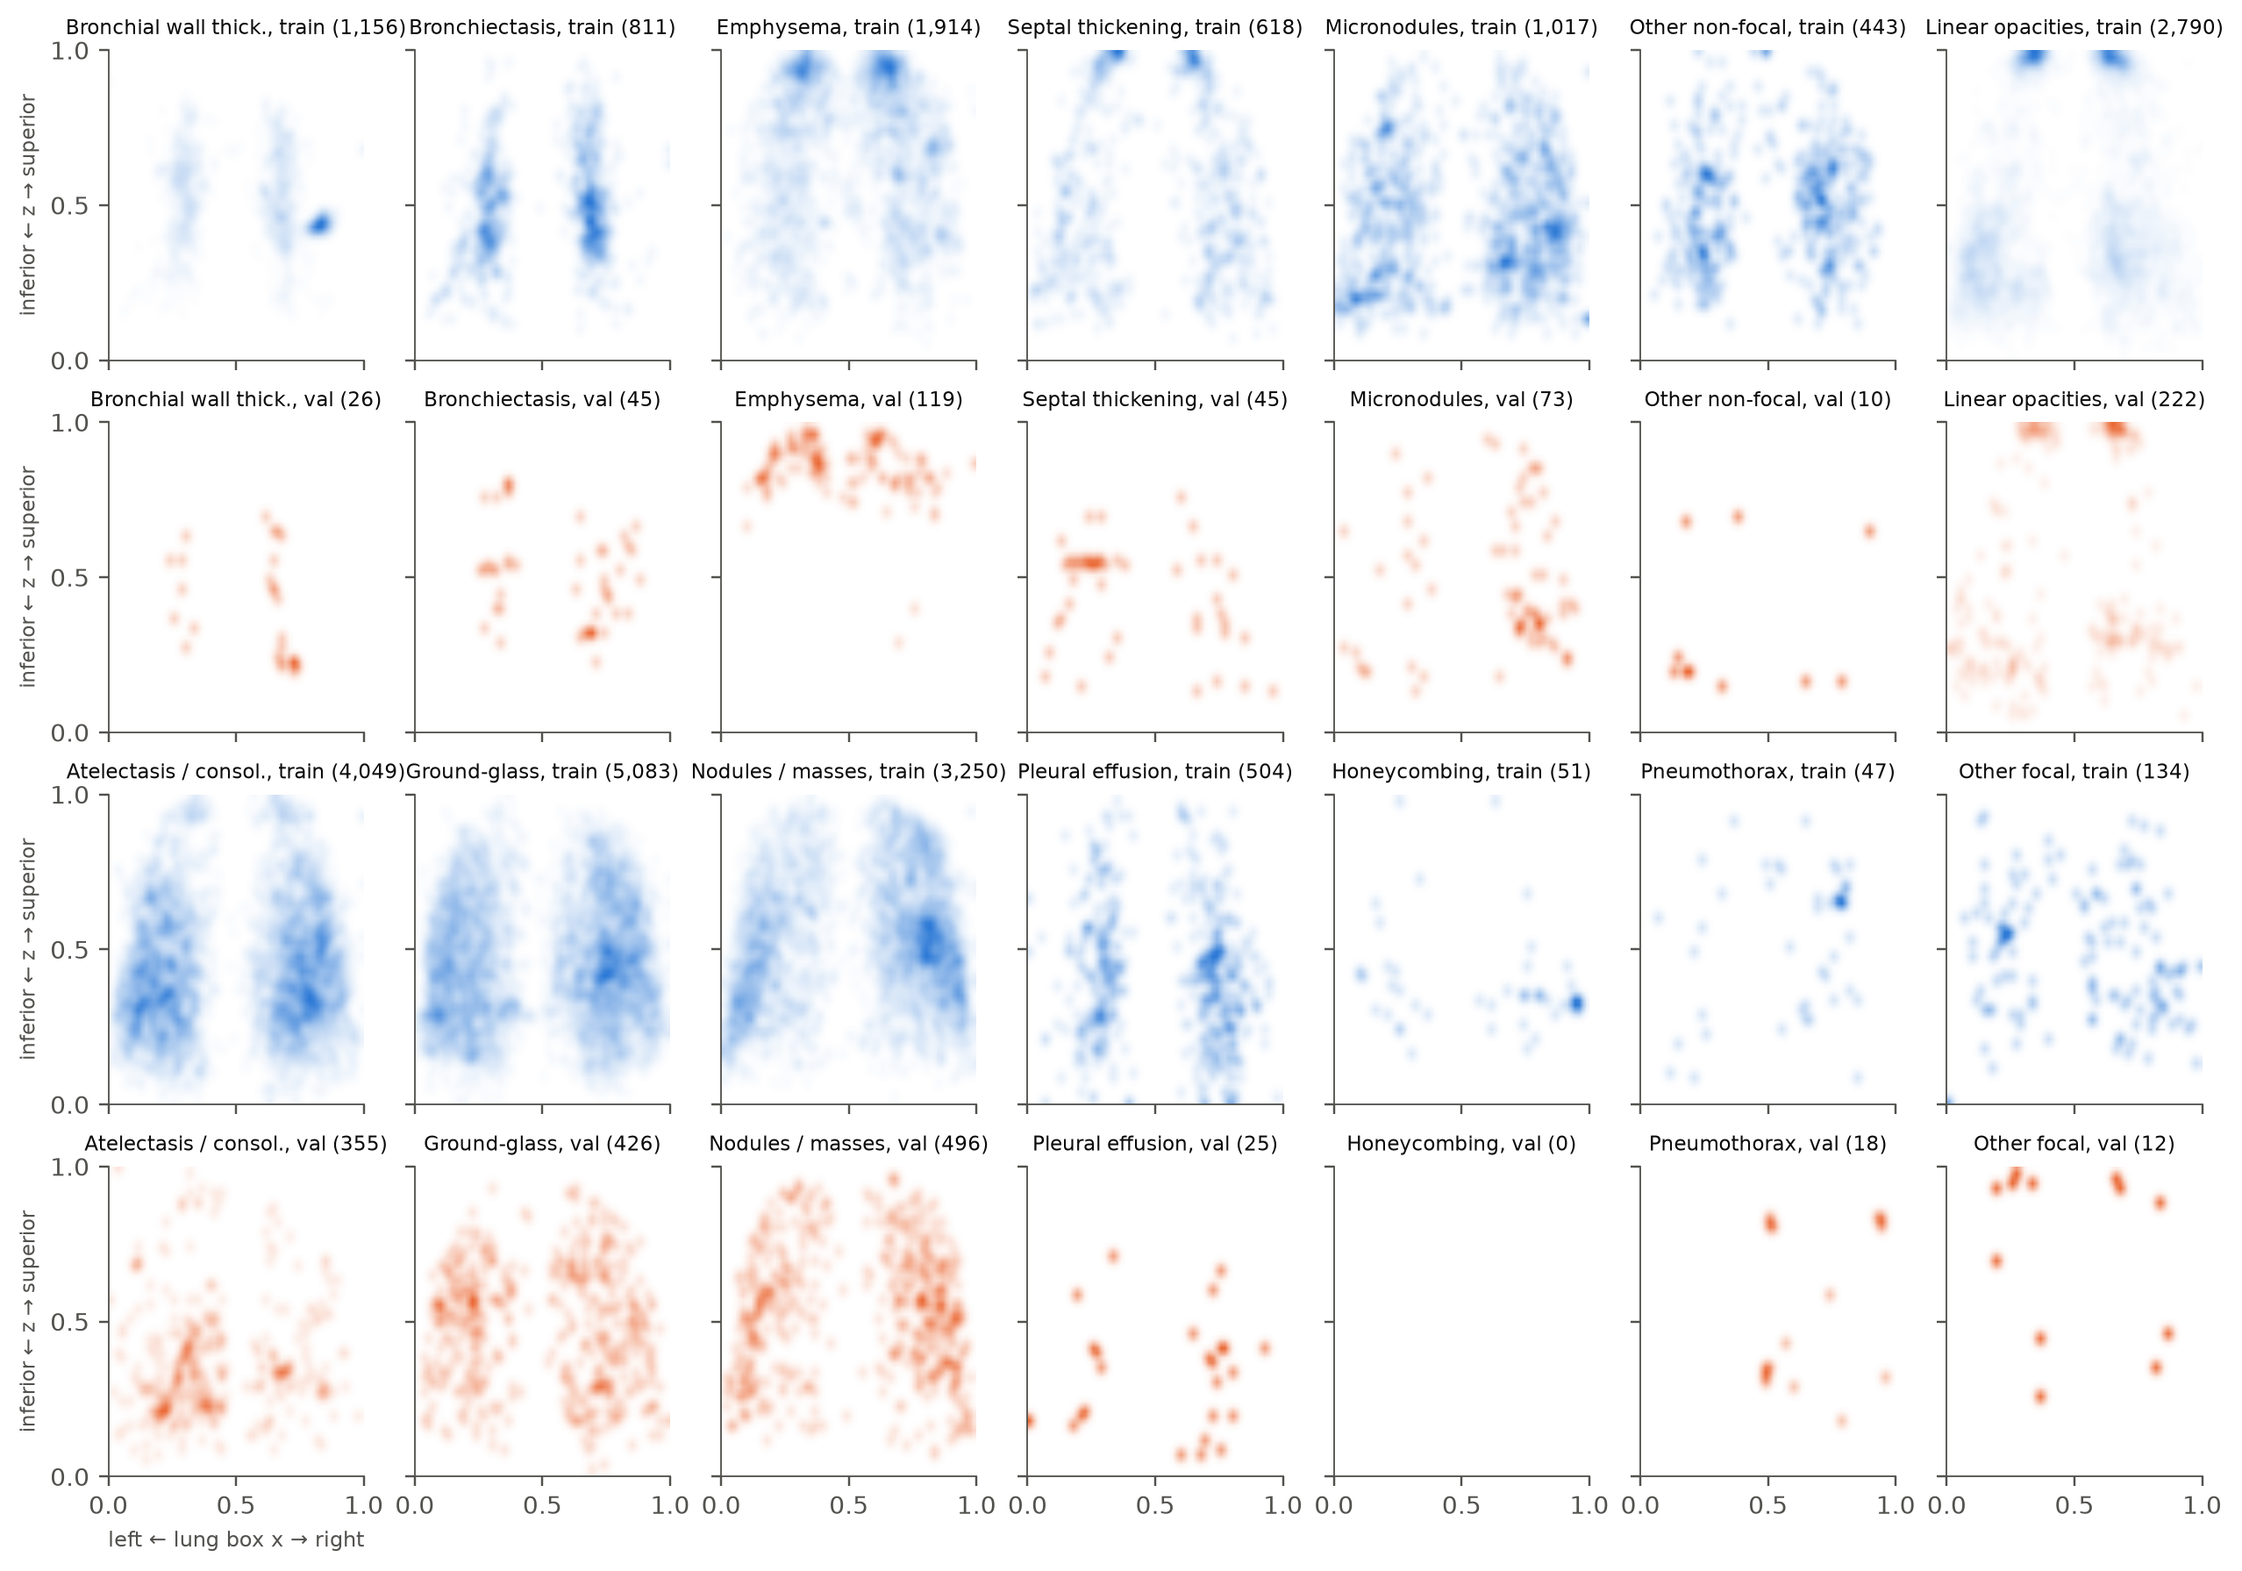
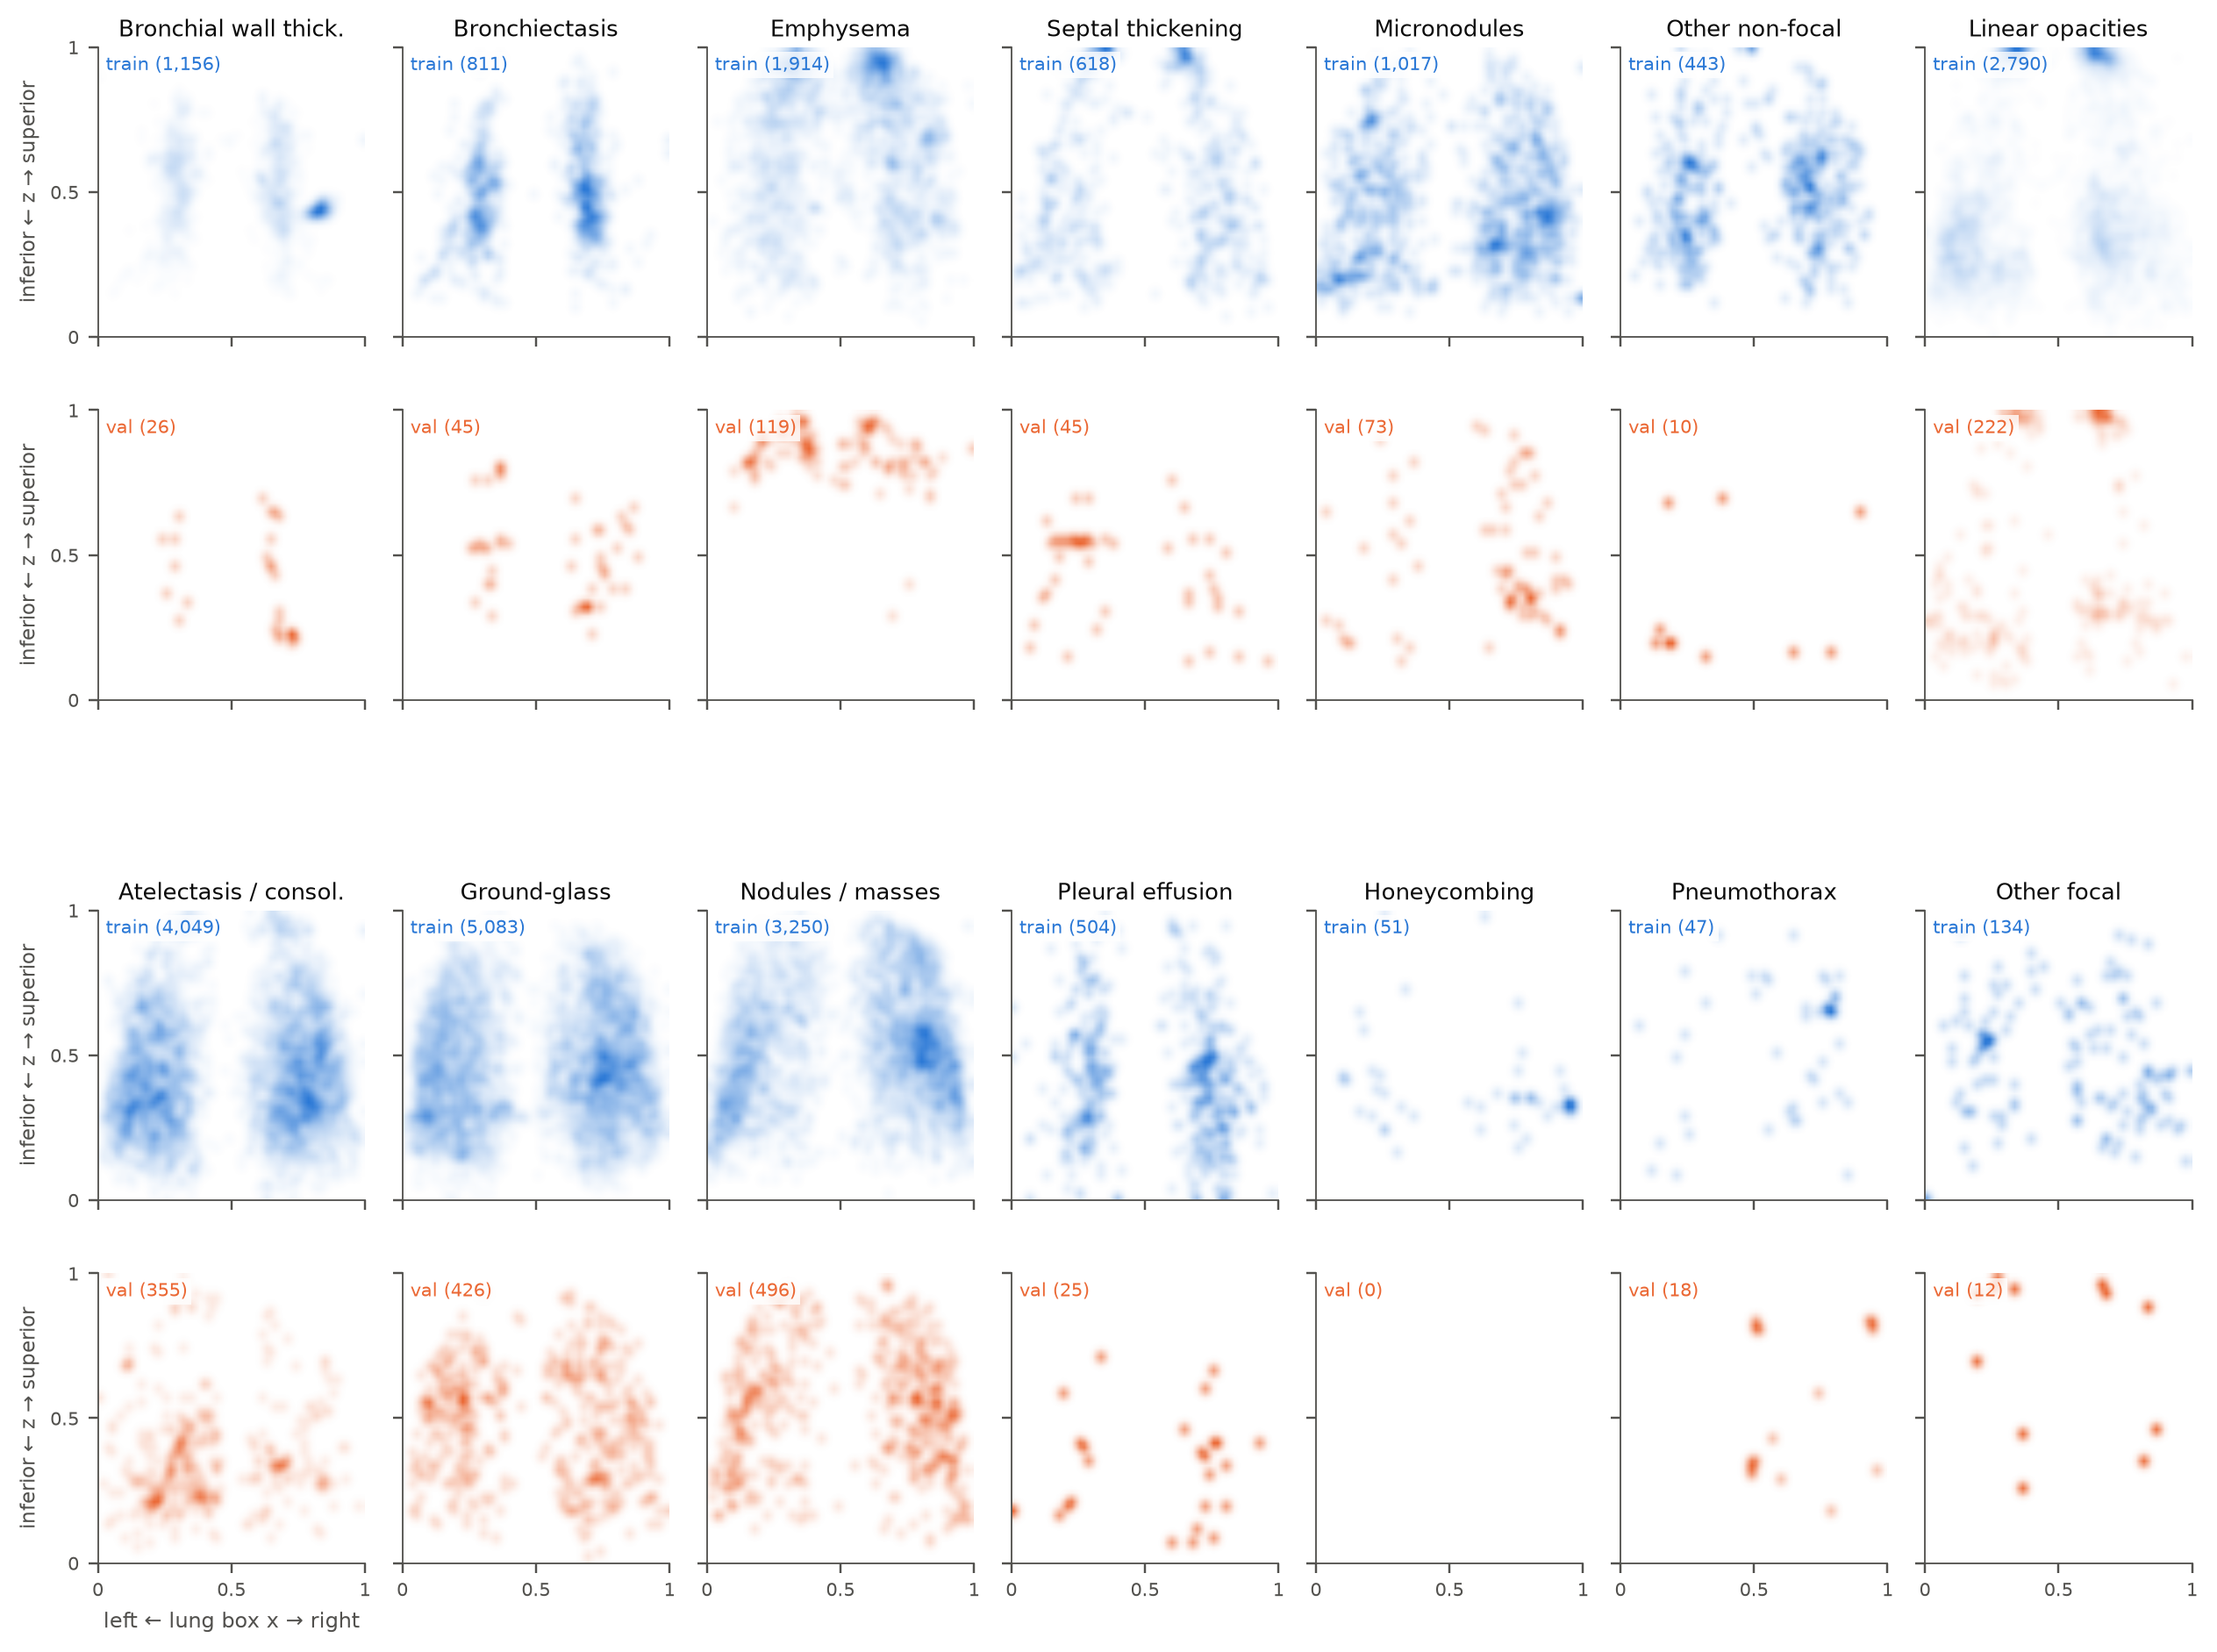
Spatial figure: one name per column, split and count inside each panel, gap between the two blocks
The train-versus-validation coronal figure names each pathology once, above its
column, and puts the split and component count inside each panel instead of
repeating the name in every title. A spacer row separates the two blocks of seven
categories so each train/validation pair reads as a pair, and tick labels are
shortened so neighbouring panels do not collide.

diff --git a/profiling/analyze.py b/profiling/analyze.py
@@ -223,18 +223,27 @@ def spatial(t: dict) -> None:
 
     # train (Entity Protocol) against validation (exhaustive): the same coronal density, one row per split
     # for each block of seven categories, so the two annotation protocols can be compared category by category
-    fig, axes = plt.subplots(4, 7, figsize=(14, 9.6), sharex=True, sharey=True)
+    # a spacer row between the two blocks keeps each train/val pair visibly together
+    fig = plt.figure(figsize=(14, 10.2))
+    gs = fig.add_gridspec(5, 7, height_ratios=[1, 1, 0.22, 1, 1], hspace=0.30, wspace=0.14)
+    axes = np.empty((4, 7), dtype=object); first = None
     for block, cats in enumerate((CATS[:7], CATS[7:])):
         for col, k in enumerate(cats):
             for row, (split, color) in enumerate((("train", SPLIT_COLOR["train"]), ("val", SPLIT_COLOR["val"]))):
-                ax = axes[2 * block + row, col]
+                ax = fig.add_subplot(gs[3 * block + row, col], sharex=first, sharey=first); first = first or ax
+                axes[2 * block + row, col] = ax
+                ax.tick_params(labelbottom=(block == 1 and row == 1), labelleft=(col == 0), labelsize=7)
                 d = c[(c.split == split) & (c.category == k)]
                 h, _, _ = np.histogram2d(d["lung_x"].clip(0, 1), d["lung_z"].clip(0, 1), bins=64, range=[[0, 1], [0, 1]])
                 h = gaussian_filter(h, sigma=1.0); h = h / max(h.max(), 1e-9)
                 cm = matplotlib.colors.LinearSegmentedColormap.from_list("s", ["#ffffff", color])
                 ax.imshow(h.T, origin="lower", extent=[0, 1, 0, 1], cmap=cm, vmin=0, vmax=1, aspect="auto", interpolation="bilinear")
-                ax.set_title(f"{CAT_SHORT[k]}, {'train' if split == 'train' else 'val'} ({len(d):,})", fontsize=7.5, color=INK)
+                if row == 0:                                        # the name once per column; split and count inside each panel
+                    ax.set_title(CAT_SHORT[k], fontsize=8.5, color=INK, pad=4)
+                ax.text(0.03, 0.97, f"{'train' if split == 'train' else 'val'} ({len(d):,})", transform=ax.transAxes, fontsize=7,
+                        color=color, va="top", ha="left", bbox=dict(facecolor="white", edgecolor="none", alpha=0.8, pad=1.5))
                 ax.grid(False); ax.set_xticks([0, 0.5, 1]); ax.set_yticks([0, 0.5, 1])
+                ax.set_xticklabels(["0", "0.5", "1"]); ax.set_yticklabels(["0", "0.5", "1"])   # short labels: neighbours do not collide
     axes[3, 0].set_xlabel("left ← lung box x → right", fontsize=8)
     for r in range(4):
         axes[r, 0].set_ylabel("inferior ← z → superior", fontsize=7.5)
